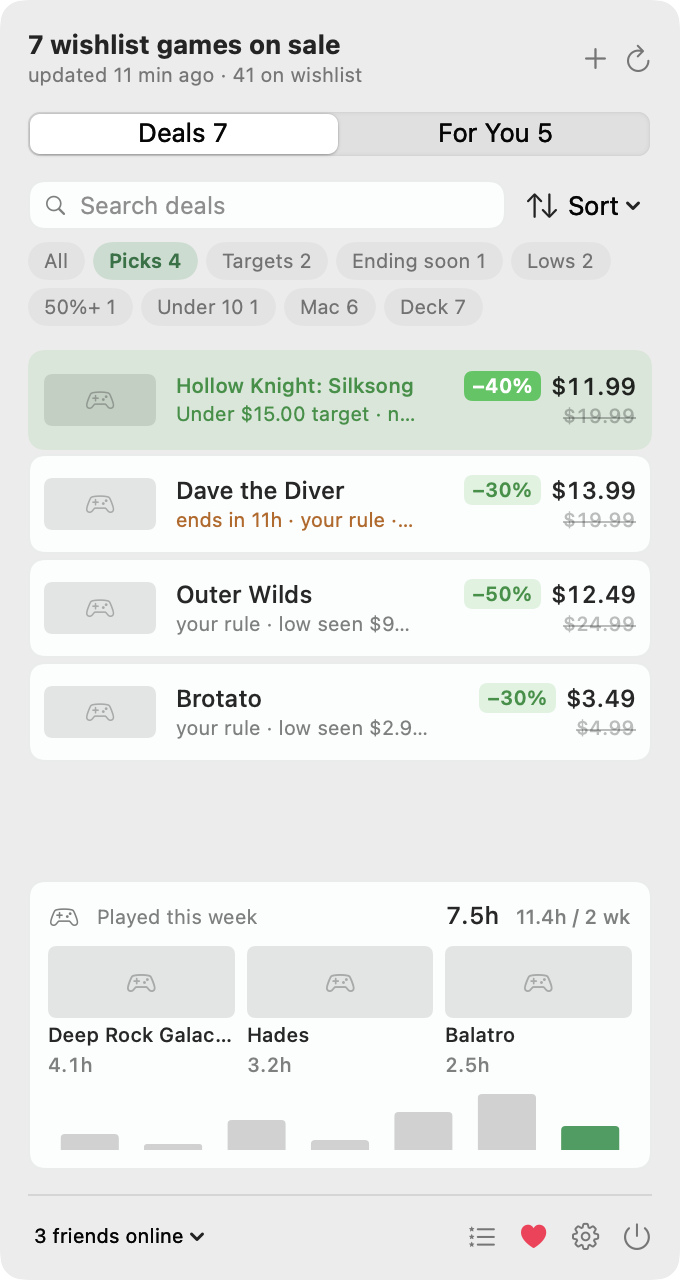
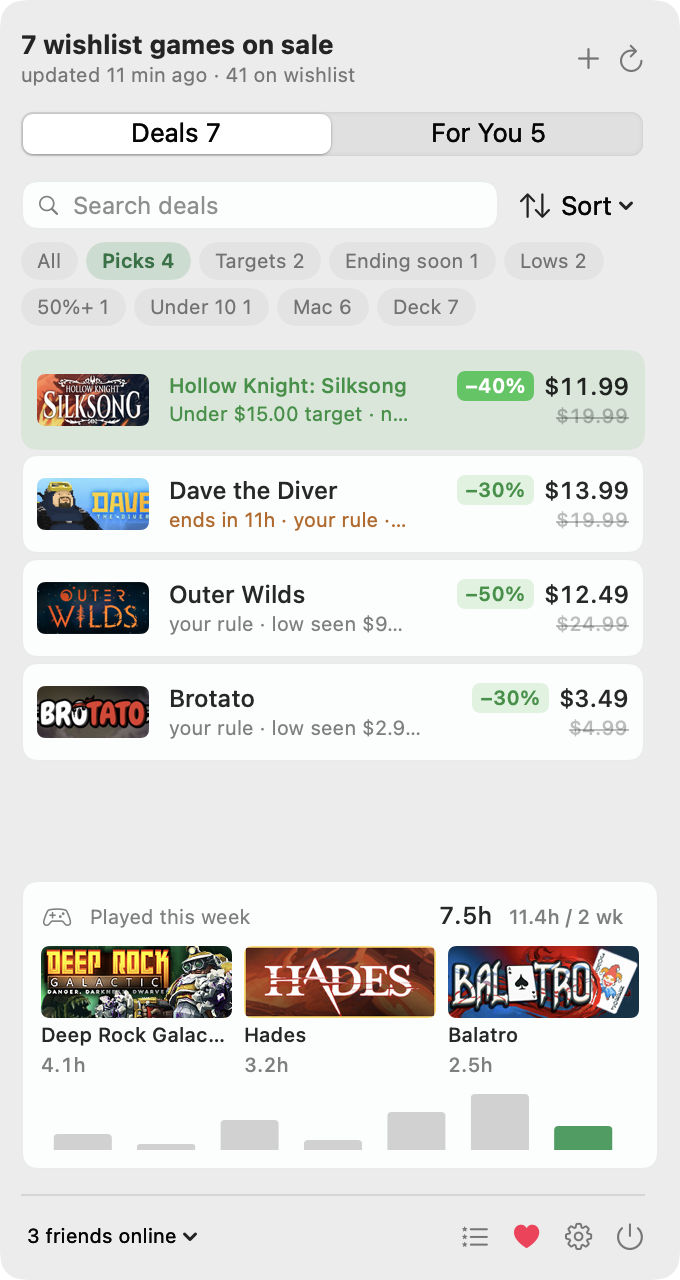
Launch prep: issue forms, Suggest a Feature, safe diagnostics, social preview
- Bug report and feature request issue forms; Ko-fi funding link;
  Discussions templates ready for if Discussions is turned on
- Settings → About: Suggest a Feature, Report a Bug, Copy Diagnostics;
  diagnostics no longer include the Steam ID
- docs/social-preview.png (scripts/make-social-preview.swift) and README
  screenshots with real capsule art via --demo --art

diff --git a/scripts/make-social-preview.swift b/scripts/make-social-preview.swift
@@ -1,0 +1,62 @@
+// Renders docs/social-preview.png (1280×640), the card GitHub shows when the repo link is shared.
+// Usage: swift scripts/make-social-preview.swift   (then upload it in the repo's Settings → Social preview)
+import AppKit
+
+let W: CGFloat = 1280, H: CGFloat = 640, scale: CGFloat = 1   // GitHub caps the upload at 1 MB
+let root = URL(fileURLWithPath: CommandLine.arguments.count > 1 ? CommandLine.arguments[1] : ".")
+guard let icon = NSImage(contentsOf: root.appendingPathComponent("Resources/AppIcon.png")),
+      let shot = NSImage(contentsOf: root.appendingPathComponent("docs/popover-dark.png")) else {
+    print("run from the repo root"); exit(1)
+}
+
+let rep = NSBitmapImageRep(bitmapDataPlanes: nil, pixelsWide: Int(W * scale), pixelsHigh: Int(H * scale),
+                           bitsPerSample: 8, samplesPerPixel: 4, hasAlpha: true, isPlanar: false,
+                           colorSpaceName: .deviceRGB, bytesPerRow: 0, bitsPerPixel: 0)!
+rep.size = NSSize(width: W, height: H)
+NSGraphicsContext.saveGraphicsState()
+NSGraphicsContext.current = NSGraphicsContext(bitmapImageRep: rep)
+
+// Background: the icon's green → deep forest gradient.
+NSGradient(starting: NSColor(srgbRed: 0.18, green: 0.56, blue: 0.33, alpha: 1),
+           ending: NSColor(srgbRed: 0.03, green: 0.14, blue: 0.08, alpha: 1))!
+    .draw(in: NSRect(x: 0, y: 0, width: W, height: H), angle: -60)
+
+func text(_ s: String, size: CGFloat, weight: NSFont.Weight, alpha: CGFloat = 1, at p: NSPoint, width: CGFloat = 640) {
+    let style = NSMutableParagraphStyle(); style.lineSpacing = 4
+    let attrs: [NSAttributedString.Key: Any] = [.font: NSFont.systemFont(ofSize: size, weight: weight),
+                                                .foregroundColor: NSColor.white.withAlphaComponent(alpha),
+                                                .paragraphStyle: style]
+    let r = (s as NSString).boundingRect(with: NSSize(width: width, height: 400), options: .usesLineFragmentOrigin, attributes: attrs)
+    (s as NSString).draw(with: NSRect(x: p.x, y: p.y - r.height, width: width, height: r.height),
+                         options: .usesLineFragmentOrigin, attributes: attrs)
+}
+
+// GitHub's repo-card template: keep everything important 80 px in from every edge (it gets
+// cropped differently depending on where the link is shared). Only the background bleeds.
+let safe = NSRect(x: 80, y: 80, width: W - 160, height: H - 160)
+
+// Right: the top of the popover (tabs, filters, target hits and deals), with a soft shadow.
+let crop = NSRect(x: 0, y: shot.size.height * 0.30, width: shot.size.width, height: shot.size.height * 0.70)
+let shotH = safe.height
+let shotW = crop.width / crop.height * shotH
+let frame = NSRect(x: safe.maxX - shotW, y: safe.minY, width: shotW, height: shotH)
+NSGraphicsContext.saveGraphicsState()
+let shadow = NSShadow(); shadow.shadowBlurRadius = 24; shadow.shadowOffset = NSSize(width: 0, height: -8)
+shadow.shadowColor = NSColor.black.withAlphaComponent(0.5); shadow.set()
+shot.draw(in: frame, from: crop, operation: .sourceOver, fraction: 1)
+NSGraphicsContext.restoreGraphicsState()
+
+// Left column: icon and name, pitch, footer, all inside the safe area.
+let textWidth = frame.minX - safe.minX - 40
+icon.draw(in: NSRect(x: safe.minX, y: safe.maxY - 120, width: 120, height: 120))
+text("Steamwatch", size: 64, weight: .bold, at: NSPoint(x: safe.minX + 140, y: safe.maxY - 18))
+text("Never miss a Steam sale.", size: 38, weight: .semibold, at: NSPoint(x: safe.minX, y: safe.maxY - 160), width: textWidth)
+text("Your wishlist's deals, price limits that notify you, new lows and games you might like, in your Mac's menu bar.",
+     size: 24, weight: .regular, alpha: 0.78, at: NSPoint(x: safe.minX, y: safe.maxY - 225), width: textWidth)
+text("Free and open source  ·  Notarized  ·  github.com/mrte1122/Steamwatch", size: 19, weight: .medium, alpha: 0.6,
+     at: NSPoint(x: safe.minX, y: safe.minY + 26), width: textWidth)
+
+NSGraphicsContext.restoreGraphicsState()
+let out = root.appendingPathComponent("docs/social-preview.png")
+try! rep.representation(using: .png, properties: [:])!.write(to: out)
+print("Wrote \(out.path)")

diff --git a/Sources/Steamwatch/SettingsView.swift b/Sources/Steamwatch/SettingsView.swift
@@ -35,6 +35,7 @@ struct SettingsView: View {
     @AppStorage(SettingsKey.showSuggestions) private var showSuggestions = true
 
     @State private var apiKey = Keychain.load(.apiKey) ?? ""
+    @State private var diagnosticsCopied = false
     @State private var profileStatus: String?
     @State private var resolving = false
     @State private var launchAtLogin = SMAppService.mainApp.status == .enabled
@@ -308,6 +309,20 @@ struct SettingsView: View {
                     }
                 }
                 Toggle("Check for updates automatically (daily)", isOn: $autoUpdate)
+                HStack {
+                    Link(destination: Links.featureRequest) { Label("Suggest a Feature", systemImage: "lightbulb") }
+                    Spacer()
+                    Link(destination: Links.bugReport) { Label("Report a Bug", systemImage: "ladybug") }
+                    Spacer()
+                    Button {
+                        NSPasteboard.general.clearContents()
+                        NSPasteboard.general.setString(store.diagnosticsText(), forType: .string)
+                        diagnosticsCopied = true
+                    } label: { Label(diagnosticsCopied ? "Copied" : "Copy Diagnostics", systemImage: diagnosticsCopied ? "checkmark" : "doc.on.doc") }
+                        .buttonStyle(.link)
+                        .help("For bug reports. Never includes your API key or Steam ID.")
+                }
+                .font(.caption)
                 HStack {
                     Link("Source on GitHub", destination: Links.repo)
                     Spacer()

diff --git a/Sources/Steamwatch/Settings.swift b/Sources/Steamwatch/Settings.swift
@@ -44,6 +44,9 @@ enum MenuBarMode: String, CaseIterable, Identifiable {
 /// `--demo`: sample data instead of your account. No network, no notifications.
 enum Demo {
     static let isActive = CommandLine.arguments.contains("--demo")
+    /// `--art` with `--demo`: load the demo games' real Steam capsule art (for README screenshots).
+    static let loadsArt = CommandLine.arguments.contains("--art")
+    static var hidesArt: Bool { isActive && !loadsArt }
 }
 
 enum SettingsKey {
@@ -141,6 +144,8 @@ enum SteamLink {
 enum Links {
     static let repo = URL(string: "https://github.com/mrte1122/Steamwatch")!
     static let tip = URL(string: "https://ko-fi.com/mrte90")!
+    static let featureRequest = URL(string: "https://github.com/mrte1122/Steamwatch/issues/new?template=feature_request.yml")!
+    static let bugReport = URL(string: "https://github.com/mrte1122/Steamwatch/issues/new?template=bug_report.yml")!
     static let apiKey = URL(string: "https://steamcommunity.com/dev/apikey")!
     static let privacy = URL(string: "https://steamcommunity.com/my/edit/settings")!
     static let wishlist = URL(string: "https://store.steampowered.com/wishlist/")!

diff --git a/Sources/Steamwatch/PopoverView.swift b/Sources/Steamwatch/PopoverView.swift
@@ -533,7 +533,7 @@ struct DealRow: View {
 struct CapsuleArt: View {
     let url: URL?
     var body: some View {
-        AsyncImage(url: Demo.isActive ? nil : url) { image in
+        AsyncImage(url: Demo.hidesArt ? nil : url) { image in
             image.resizable().aspectRatio(contentMode: .fill)
         } placeholder: {
             RoundedRectangle(cornerRadius: 4).fill(.quaternary)
@@ -608,7 +608,7 @@ struct PlaytimeCard: View {
 struct GameArt: View {
     let appID: AppID
     var body: some View {
-        AsyncImage(url: Demo.isActive ? nil : URL(string: "https://cdn.cloudflare.steamstatic.com/steam/apps/\(appID)/capsule_231x87.jpg")) { image in
+        AsyncImage(url: Demo.hidesArt ? nil : URL(string: "https://cdn.cloudflare.steamstatic.com/steam/apps/\(appID)/capsule_231x87.jpg")) { image in
             image.resizable().aspectRatio(contentMode: .fill)
         } placeholder: {
             RoundedRectangle(cornerRadius: 4).fill(.quaternary)

diff --git a/Sources/Steamwatch/Store.swift b/Sources/Steamwatch/Store.swift
@@ -651,7 +651,10 @@ final class Store: ObservableObject {
     }
 
     func diagnosticsText() -> String {
-        var lines = ["Steamwatch \(SteamClient.version)", "steamID: \(steamID.isEmpty ? "(not set)" : steamID)", "api key: \(hasAPIKey ? "set" : "none")"]
+        // Shared in public bug reports, so no Steam ID, profile name or key: just whether they're set.
+        let mac = ProcessInfo.processInfo.operatingSystemVersion
+        var lines = ["Steamwatch \(SteamClient.version) · macOS \(mac.majorVersion).\(mac.minorVersion).\(mac.patchVersion)",
+                     "steam account: \(steamID.isEmpty ? "not set" : "connected")", "api key: \(hasAPIKey ? "set" : "none")"]
         if let u = lastUpdated { lines.append("updated: \(u)") }
         lines.append("watching: \(watchlist.count) beyond the wishlist")
         lines.append("wishlist: \(wishlistCount) · on sale: \(deals.count) · hidden: \(hidden.count) · targets: \(targets.cents.count)"

diff --git a/Sources/Steamwatch/Snapshot.swift b/Sources/Steamwatch/Snapshot.swift
@@ -44,7 +44,8 @@ enum Snapshot {
                 window.appearance = host.appearance
                 window.contentView = host
                 host.layoutSubtreeIfNeeded()
-                try? await Task.sleep(nanoseconds: 500_000_000)
+                // Remote art needs longer to arrive than layout does.
+                try? await Task.sleep(nanoseconds: Demo.loadsArt ? 3_000_000_000 : 500_000_000)
                 host.frame = NSRect(origin: .zero, size: host.fittingSize)
                 if let rep = host.bitmapImageRepForCachingDisplay(in: host.bounds) {
                     host.cacheDisplay(in: host.bounds, to: rep)

diff --git a/README.md b/README.md
@@ -118,7 +118,8 @@ build/Steamwatch.app/Contents/MacOS/Steamwatch --once --demo   # same with sampl
 build/Steamwatch.app/Contents/MacOS/Steamwatch --search "hades"   # the store search, printed
 build/Steamwatch.app/Contents/MacOS/Steamwatch --suggest           # fetch and print suggestions
 build/Steamwatch.app/Contents/MacOS/Steamwatch --check-key         # HTTP status of each keyed call (never prints the key)
-build/Steamwatch.app/Contents/MacOS/Steamwatch --snapshot docs --demo   # README screenshots
+build/Steamwatch.app/Contents/MacOS/Steamwatch --snapshot docs --demo --art   # README screenshots (--art loads real capsule art)
+swift scripts/make-social-preview.swift .                                   # docs/social-preview.png for the repo card
 ```
 
 Launch with `--demo` to see the UI with sample data and no network access.
@@ -184,6 +185,12 @@ remaining batches are skipped and the app waits 5 minutes, doubling up to 40, be
 Any failed refresh retries at 2, 4, 8, 16 then 30 minute intervals until one succeeds, and the
 popover keeps showing the last good reading throughout. The Refresh button overrides a cooldown.
 Steam is not affiliated with this project.
+
+## Feedback
+
+Ideas and bug reports are welcome: Settings → About has **Suggest a Feature**, **Report a Bug**
+and **Copy Diagnostics** (which never includes your API key or Steam ID), or use
+[the issue forms](https://github.com/mrte1122/Steamwatch/issues/new/choose) directly.
 
 ## License
 
